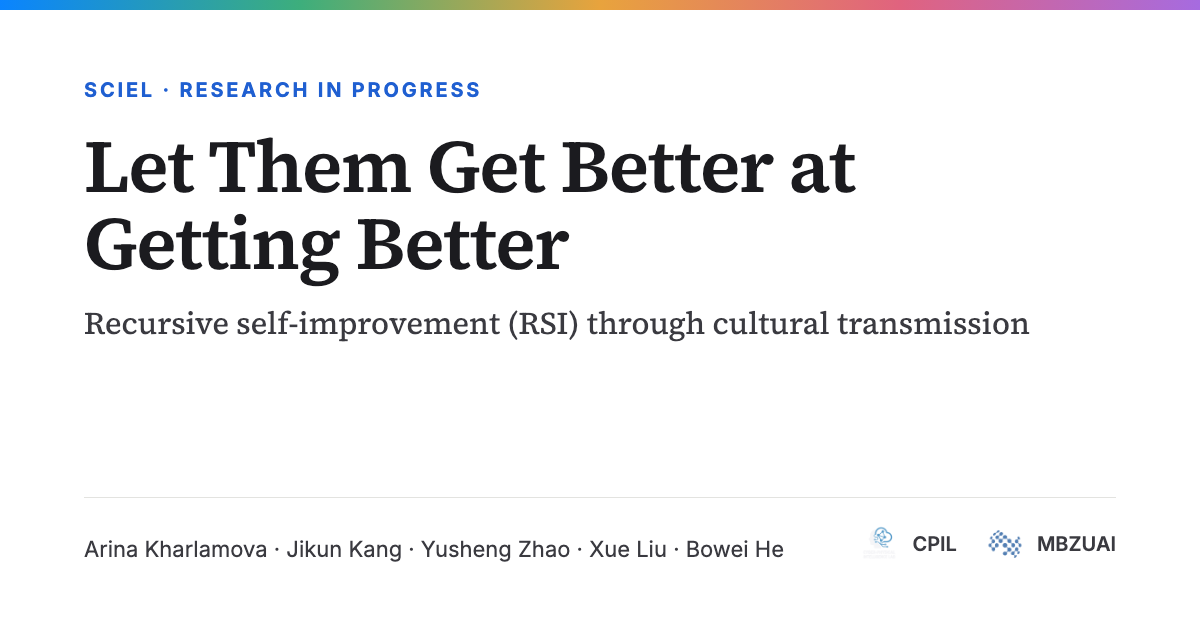
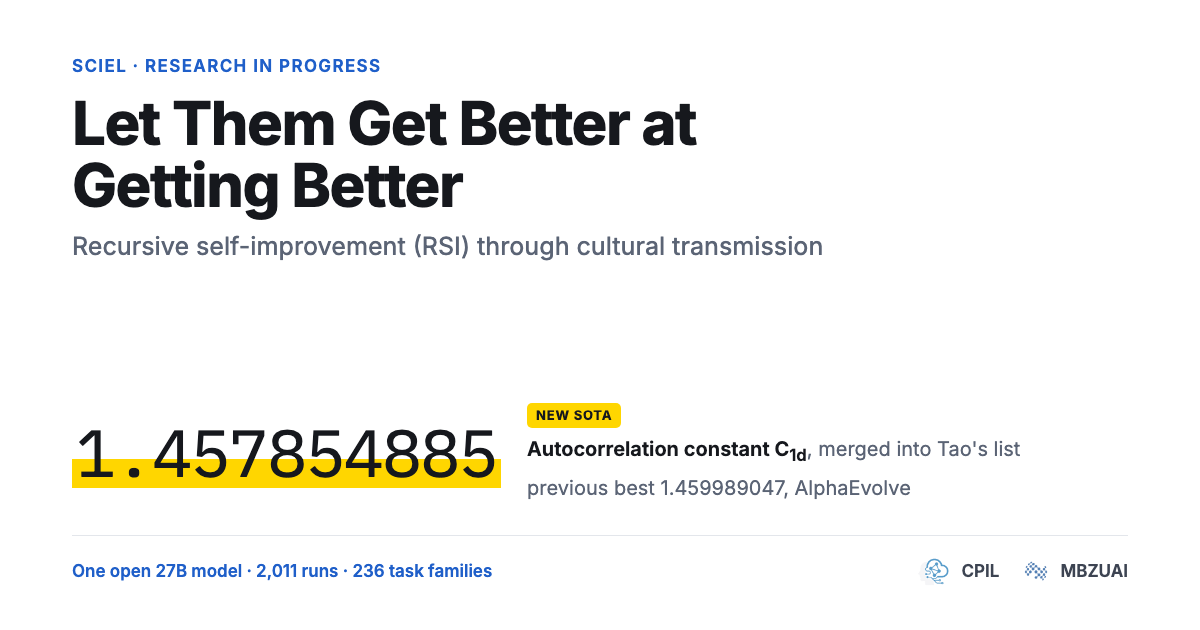
feat: post on X beside the TL;DR, new link preview, page view counter

diff --git a/src/styles/site.css b/src/styles/site.css
@@ -927,51 +927,6 @@ a.tc:hover {
 .tldr {
   position: relative;
 }
-.glance {
-  font-family: var(--font-sans);
-  border: 1px solid var(--rule);
-  border-radius: 12px;
-  padding: 14px 16px 6px;
-  margin: 0 0 20px;
-  background: var(--bg);
-}
-.glance .label {
-  font-size: var(--fs-2xs);
-  font-weight: 650;
-  letter-spacing: 0.06em;
-  text-transform: uppercase;
-  color: var(--muted);
-  margin: 0 0 8px;
-}
-.glance dl {
-  margin: 0;
-}
-.glance dl > div {
-  padding: 8px 0;
-  border-top: 1px solid var(--rule);
-}
-.glance dt {
-  font-size: 19px;
-  font-weight: 700;
-  letter-spacing: -0.01em;
-  color: var(--amber);
-  font-variant-numeric: tabular-nums;
-}
-.glance dd {
-  margin: 2px 0 0;
-  font-size: var(--fs-xs);
-  line-height: 1.45;
-  color: var(--muted);
-}
-@media (min-width: 1500px) {
-  .glance {
-    position: absolute;
-    top: 64px;
-    left: calc(100% + 40px);
-    width: 220px;
-    margin: 0;
-  }
-}
 
 .st {
   display: inline-block;
@@ -1444,13 +1399,6 @@ header.masthead {
 .cite {
   color: var(--accent);
 }
-.glance {
-  border: 2px solid #9cc3f2;
-  background: #f4f5f7;
-}
-.glance dt {
-  color: #1f5fc9;
-}
 .readmore {
   background: #f4f5f7;
   border: 2px solid #9cc3f2;
@@ -1523,11 +1471,6 @@ footer.site {
 }
 .results-t a:hover .st {
   border-color: var(--accent);
-}
-@media (max-width: 1499px) {
-  .glance {
-    display: none;
-  }
 }
 
 .article table.results-t td:nth-child(2) {
@@ -1738,15 +1681,6 @@ a,
   background: var(--sheet);
 }
 .eqbox,
-.glance,
-.readmore {
-  border-color: var(--film-blue-mid);
-  background: var(--sheet);
-}
-.glance dt,
-.rm-go {
-  color: var(--film-blue);
-}
 .gverdict,
 pre.bib {
   background: var(--sheet);
@@ -1994,12 +1928,6 @@ h3,
 .ftitle,
 .race-h,
 .tldr p.claim,
-.glance dd,
-.readmore .rm-desc,
-.gverdict,
-th {
-  text-wrap: balance;
-}
 .article > p,
 .prose p,
 .tldr p.claim {
@@ -2610,7 +2538,6 @@ footer.site a::after { content: none !important; }
   .readmore .rm-title { font-size: 15px; }
   .readmore .rm-desc { font-size: 13px; }
   .versus { font-size: 13px; }
-  .glance { display: none; }
   .refs li { font-size: 13px !important; }
   footer.site p,
   footer.site .foot-links,
@@ -2705,4 +2632,113 @@ footer.site .foot-orgs img[src*="cpil-mark"] { width: 26px; height: 22px; }
     overflow-wrap: break-word;
     text-wrap: pretty;
   }
+}
+
+.xpost {
+  display: none;
+}
+@media (min-width: 1500px) {
+  .xpost {
+    display: block;
+    position: absolute;
+    top: 64px;
+    left: calc(100% + 32px);
+    width: min(270px, calc((100vw - var(--col)) / 2 - 64px));
+    padding: 14px 16px 10px;
+    border: 1px solid #cfd9de;
+    border-radius: 12px;
+    background: #fff;
+    color: #0f1419;
+    font-family: -apple-system, BlinkMacSystemFont, "Segoe UI", Roboto, Helvetica, Arial, sans-serif;
+    font-size: 14px;
+    line-height: 1.35;
+  }
+}
+.xpost a::after {
+  content: none !important;
+}
+.xp-head {
+  display: flex;
+  align-items: center;
+  gap: 10px;
+  margin-bottom: 10px;
+}
+.xp-av {
+  width: 40px;
+  height: 40px;
+  border-radius: 50%;
+  flex: none;
+}
+.xp-who {
+  display: flex;
+  flex-direction: column;
+  min-width: 0;
+  font-size: 14px;
+}
+.xp-who span {
+  color: #536471;
+}
+.xp-x {
+  margin-left: auto;
+  color: #0f1419;
+  line-height: 0;
+}
+.xp-x svg {
+  width: 20px;
+  height: 20px;
+}
+.xpost .xp-text {
+  margin: 0 0 10px;
+  font-size: 14px;
+  line-height: 1.35;
+  color: #0f1419;
+}
+.xpost .xp-text a {
+  color: #1d9bf0;
+  text-decoration: none;
+}
+.xp-media {
+  display: block;
+  line-height: 0;
+}
+.xp-media img {
+  width: 100%;
+  height: 190px;
+  object-fit: cover;
+  object-position: center 45%;
+  border: 1px solid #cfd9de;
+  border-radius: 12px;
+}
+.xpost .xp-date {
+  margin: 10px 0 8px;
+  font-size: 13px;
+  color: #536471;
+}
+.xp-foot {
+  display: flex;
+  align-items: center;
+  justify-content: space-between;
+  padding-top: 8px;
+  border-top: 1px solid #eff3f4;
+  font-size: 13px;
+  color: #536471;
+}
+.xp-views {
+  display: inline-flex;
+  align-items: center;
+  gap: 4px;
+}
+.xp-views svg {
+  width: 17px;
+  height: 17px;
+}
+.xp-views b {
+  color: #0f1419;
+}
+.xp-foot a {
+  color: #536471;
+  text-decoration: none;
+}
+.xp-foot a:hover {
+  color: #1d9bf0;
 }

diff --git a/src/scripts/main.ts b/src/scripts/main.ts
@@ -52,3 +52,17 @@ initChrome();
 initFilm();
 initSvgText();
 mountLazily();
+
+const views = document.querySelector<HTMLElement>(".masthead .views");
+if (views) {
+  fetch(`https://musyalyusya.goatcounter.com/counter/${encodeURIComponent("/")}.json`)
+    .then((r) => (r.ok ? r.json() : null))
+    .then((d: { count: string } | null) => {
+      const n = Number(d?.count.replace(/\D/g, ""));
+      if (n >= 1000) {
+        views.textContent = ` · ${n.toLocaleString("en-US")} views`;
+        views.hidden = false;
+      }
+    })
+    .catch(() => {});
+}

diff --git a/src/data/site.ts b/src/data/site.ts
@@ -20,7 +20,7 @@ export const SITE = {
   description:
     "A system built on a frozen 27B model that keeps improving from the experience it produces itself: what one group of programs learns is tested, passed on, and kept only if it helps where it lands.",
   url: "https://sciel-rsi-cpil.github.io/",
-  ogImage: "https://sciel-rsi-cpil.github.io/og-card.png",
+  ogImage: "https://sciel-rsi-cpil.github.io/og-card.png?v=2",
   authors: AUTHORS,
   affiliations: [
     { name: "CPIL", full: "Cyber-Physical Intelligence Lab" },
